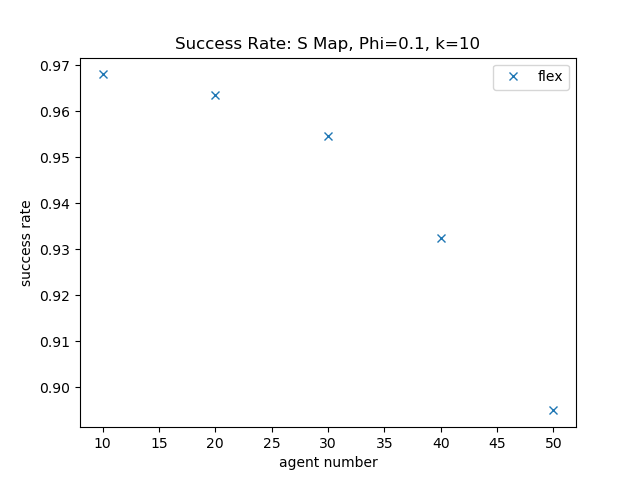
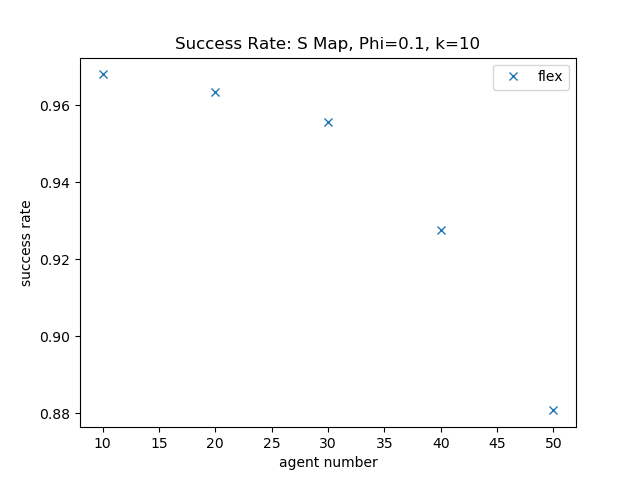
update

diff --git a/experiment/result.py b/experiment/result.py
@@ -358,21 +358,21 @@ def main():
     #     agent, task_per_agent = index
     #     plot_phi_vs_success(all_df, agent, task_per_agent)
 
-    # pairs = all_df.groupby(['size', 'phi']).first()
-    # data = []
-    # for index, row in pairs.iterrows():
-    #     size, phi = index
-    #     if phi >= 0:
-    #         ratios = []
-    #         times = []
-    #         for k in [10]:
-    #             ratio, time = plot_tasks_vs_success(all_df, size, phi, k)
-    #             ratios.append(ratio)
-    #             times.append(time)
-    #             data.append((_parse_map_size(size), phi, ratios, times))
-    # #
-    # generate_table(data, 'S')
-    # generate_table(data, 'L')
+    pairs = all_df.groupby(['size', 'phi']).first()
+    data = []
+    for index, row in pairs.iterrows():
+        size, phi = index
+        if phi >= 0:
+            ratios = []
+            times = []
+            for k in [10]:
+                ratio, time = plot_tasks_vs_success(all_df, size, phi, k)
+                ratios.append(ratio)
+                times.append(time)
+                data.append((_parse_map_size(size), phi, ratios, times))
+    #
+    generate_table(data, 'S')
+    generate_table(data, 'L')
 
     # pairs = all_df.groupby(['size', 'phi']).first()
     # data = []
@@ -410,12 +410,12 @@ def main():
     # task_per_agent = pair[['task_per_agent']]
     # print(agent, task_per_agent)
 
-    pairs = all_df.groupby(['size', 'phi']).first()
-    data = []
-    for index, row in pairs.iterrows():
-        size, phi = index
-        if phi >= 0:
-            plot_nearest_ec(all_df, size, phi)
+    # pairs = all_df.groupby(['size', 'phi']).first()
+    # data = []
+    # for index, row in pairs.iterrows():
+    #     size, phi = index
+    #     if phi >= 0:
+    #         plot_nearest_ec(all_df, size, phi)
 
 
 

diff --git a/experiment/test.py b/experiment/test.py
@@ -117,7 +117,7 @@ async def run_task(size=(21, 35), agent=10, task_per_agent=2, scheduler="flex", 
                 # _run(bound=False, sort=False, mlabel=True, reserve=False, skip=False, task_bound=False),
                 # _run(bound=True, sort=True, mlabel=True, reserve=True),
                 # _run(bound=True, sort=True, mlabel=True, reserve=False, skip=True),
-                _run(bound=True, sort=True, mlabel=True, reserve=True, skip=True, task_bound=True, nearest=False, extra_cost=False),
+                _run(bound=True, sort=True, mlabel=True, reserve=True, skip=True, task_bound=True, nearest=False, extra_cost=False, recalculate=False),
                 # _run(bound=True, sort=True, mlabel=True, reserve=False, skip=True, task_bound=True, nearest=False, extra_cost=False),
                 # _run(bound=True, sort=True, mlabel=True, reserve=False, skip=True, task_bound=True, nearest=True, extra_cost=False),
                 # _run(bound=True, sort=True, mlabel=True, reserve=False, skip=True, task_bound=True, nearest=False, extra_cost=True),
